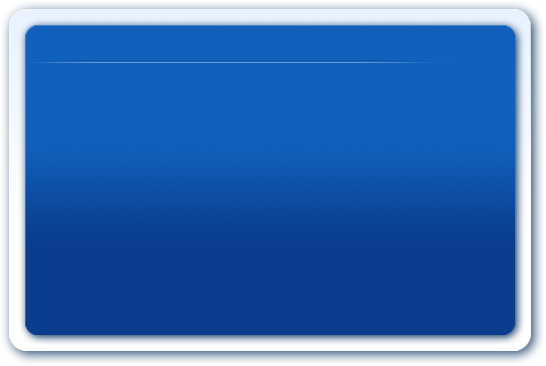
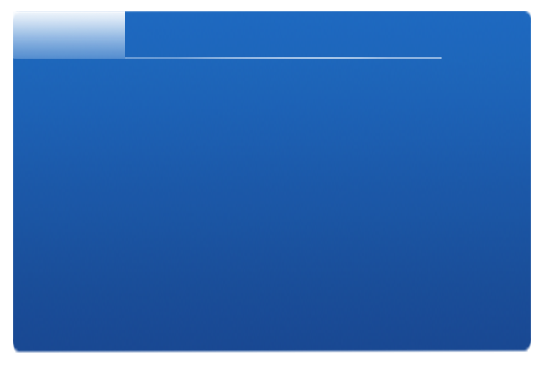
fixed: mantis #0000996 (GUIDialog: After dialog finished fade-out on close, the dialog title flash-up again), added new skin control "5" to DialogMenu to preserve it's "menu" text when all controls are freed, added some stuff James missed in Rev 13336 for BlueTwo wide - needs adjustments now!

Changed region(s): [[0.0, 0.0, 0.9963, 0.9918]]

diff --git a/mediaportal/Core/guilib/GUIWindow.cs b/mediaportal/Core/guilib/GUIWindow.cs
@@ -916,7 +916,6 @@ namespace MediaPortal.GUI.Library
     /// </summary>
     public virtual void FreeResources()
     {
-
       _windowAllocated = false;
       try
       {
@@ -1235,92 +1234,80 @@ namespace MediaPortal.GUI.Library
     public virtual bool OnMessage(GUIMessage message)
     {
       if (message == null) return true;
+
       //lock (this)
       AnimationTrigger(message);
       int id;
+      int iControlId = message.SenderControlId;
       {
         try
         {
           switch (message.Message)
           {
-            case GUIMessage.MessageType.GUI_MSG_CLICKED:
-              {
-                int iControlId = message.SenderControlId;
-                if (iControlId != 0)
-                  OnClicked(iControlId, GetControl(iControlId), (Action.ActionType)message.Param1);
-              }
+            case GUIMessage.MessageType.GUI_MSG_CLICKED:              
+              if (iControlId != 0)
+                OnClicked(iControlId, GetControl(iControlId), (Action.ActionType)message.Param1);
               break;
+
             case GUIMessage.MessageType.GUI_MSG_CLICKED_DOWN:
-              {
-                int iControlId = message.SenderControlId;
-                if (iControlId != 0)
-                  OnClickedDown(iControlId, GetControl(iControlId), (Action.ActionType)message.Param1);
-              }
+              if (iControlId != 0)
+                OnClickedDown(iControlId, GetControl(iControlId), (Action.ActionType)message.Param1);
               break;
 
             case GUIMessage.MessageType.GUI_MSG_CLICKED_UP:
-              {
-                int iControlId = message.SenderControlId;
-                if (iControlId != 0)
-                  OnClickedUp(iControlId, GetControl(iControlId), (Action.ActionType)message.Param1);
-              }
+              if (iControlId != 0)
+                OnClickedUp(iControlId, GetControl(iControlId), (Action.ActionType)message.Param1);
               break;
-
 
             // Initialize the window.
             case GUIMessage.MessageType.GUI_MSG_WINDOW_INIT:
+              if (_shouldRestore)
               {
-
-                if (_shouldRestore)
-                {
-                  DoRestoreSkin();
-
-                }
-                else
-                {
-                  GUIPropertyManager.SetProperty("#itemcount", String.Empty);
-                  GUIPropertyManager.SetProperty("#selecteditem", String.Empty);
-                  GUIPropertyManager.SetProperty("#selecteditem2", String.Empty);
-                  GUIPropertyManager.SetProperty("#selectedthumb", String.Empty);
-                  LoadSkin();
-                  AllocResources();
-
-                }
-
-                InitControls();
-
-                GUIGraphicsContext.Overlay = _isOverlayAllowed;
-
-                // set topbar autohide 
-                switch (_autoHideTopbarType)
-                {
-                  case AutoHideTopBar.No:
-                    _autoHideTopbar = false;
-                    break;
-                  case AutoHideTopBar.Yes:
-                    _autoHideTopbar = true;
-                    break;
-                  default:
-                    _autoHideTopbar = GUIGraphicsContext.DefaultTopBarHide;
-                    break;
-                }
-                GUIGraphicsContext.AutoHideTopBar = _autoHideTopbar;
-                GUIGraphicsContext.TopBarHidden = _autoHideTopbar;
-                GUIGraphicsContext.DisableTopBar = _disableTopBar;
-
-                if (message.Param1 != (int)GUIWindow.Window.WINDOW_INVALID)
-                {
-                  if (message.Param1 != GetID)
-                    _previousWindowId = message.Param1;
-                }
-                GUIMessage msg = new GUIMessage(GUIMessage.MessageType.GUI_MSG_SETFOCUS, GetID, 0, _defaultControlId, 0, 0, null);
-                OnMessage(msg);
-
-
-                GUIPropertyManager.SetProperty("#currentmodule", GUILocalizeStrings.Get(100000 + GetID));
-
-                Log.Info("window:{0} init", this.ToString());
+                DoRestoreSkin();
               }
+              else
+              {
+                GUIPropertyManager.SetProperty("#itemcount", String.Empty);
+                GUIPropertyManager.SetProperty("#selecteditem", String.Empty);
+                GUIPropertyManager.SetProperty("#selecteditem2", String.Empty);
+                GUIPropertyManager.SetProperty("#selectedthumb", String.Empty);
+                LoadSkin();
+                AllocResources();
+              }
+
+              InitControls();
+
+              GUIGraphicsContext.Overlay = _isOverlayAllowed;
+
+              // set topbar autohide 
+              switch (_autoHideTopbarType)
+              {
+                case AutoHideTopBar.No:
+                  _autoHideTopbar = false;
+                  break;
+                case AutoHideTopBar.Yes:
+                  _autoHideTopbar = true;
+                  break;
+                default:
+                  _autoHideTopbar = GUIGraphicsContext.DefaultTopBarHide;
+                  break;
+              }
+              GUIGraphicsContext.AutoHideTopBar = _autoHideTopbar;
+              GUIGraphicsContext.TopBarHidden = _autoHideTopbar;
+              GUIGraphicsContext.DisableTopBar = _disableTopBar;
+
+              if (message.Param1 != (int)GUIWindow.Window.WINDOW_INVALID)
+              {
+                if (message.Param1 != GetID)
+                  _previousWindowId = message.Param1;
+              }
+
+              GUIMessage msg = new GUIMessage(GUIMessage.MessageType.GUI_MSG_SETFOCUS, GetID, 0, _defaultControlId, 0, 0, null);
+              OnMessage(msg);
+
+              GUIPropertyManager.SetProperty("#currentmodule", GUILocalizeStrings.Get(100000 + GetID));
+              Log.Info("window:{0} init", this.ToString());
+
               _hasRendered = false;
               OnPageLoad();
 

diff --git a/mediaportal/Dialogs/Dialogs/GUIDialogMenu.cs b/mediaportal/Dialogs/Dialogs/GUIDialogMenu.cs
@@ -45,6 +45,8 @@ namespace MediaPortal.Dialogs
     [SkinControlAttribute(2)]    protected GUIButtonControl btnClose = null;
     [SkinControlAttribute(3)]    protected GUIListControl listView = null;
     [SkinControlAttribute(4)]    protected GUILabelControl lblHeading = null;
+    [SkinControlAttribute(5)]    protected GUILabelControl lblGFXHeading = null;
+
     int selectedItemIndex = -1;
     int selectedId = -1;
     bool showQuickNumbers = true;
@@ -70,10 +72,10 @@ namespace MediaPortal.Dialogs
     {
       get { return true; }
     }
+
     public override void PreInit()
     {
     }
-
 
     public override void OnAction(Action action)
     {
@@ -104,7 +106,7 @@ namespace MediaPortal.Dialogs
         keySelection += key;
         if (keySelection.Length == listItems.Count.ToString().Length)
         {
-          selectOpcion(keySelection);
+          selectOption(keySelection);
           keySelection = string.Empty;
           return;
         }
@@ -114,7 +116,8 @@ namespace MediaPortal.Dialogs
 
       base.OnAction(action);
     }
-    public void selectOpcion(string keySelected)
+
+    public void selectOption(string keySelected)
     {
       int selected;
       try
@@ -136,13 +139,14 @@ namespace MediaPortal.Dialogs
         OnMessage(msg);
       }
     }
+
     public override void Process()
     {
       if (keySelection == string.Empty) return;
       TimeSpan ts = DateTime.Now - keyTimer;
       if (ts.TotalMilliseconds >= 1000)
       {
-        selectOpcion(keySelection);
+        selectOption(keySelection);
         keySelection = string.Empty;
       }
     }
@@ -227,10 +231,9 @@ namespace MediaPortal.Dialogs
       {
         case GUIMessage.MessageType.GUI_MSG_WINDOW_DEINIT:
           {
-            m_bRunning = false;
-
-            // THIS IS AN INFINITY LOOP if you press the dialog's quick numbers (like 1,2,3)
             base.OnMessage(message);
+            m_bRunning = false;            
+
             return true;
           }
 
@@ -261,9 +264,7 @@ namespace MediaPortal.Dialogs
 
           }
           return true;
-
       }
-
       return base.OnMessage(message);
     }
 
@@ -308,6 +309,7 @@ namespace MediaPortal.Dialogs
       get { return showQuickNumbers; }
       set { showQuickNumbers = value; }
     }
+
     public void AddLocalizedString(int iLocalizedString)
     {
       int iItemIndex = listItems.Count + 1;
@@ -350,18 +352,16 @@ namespace MediaPortal.Dialogs
       InitControls();
 
       lblHeading.Label = strLine;
+      if (lblGFXHeading != null)
+        lblGFXHeading.Label = GUILocalizeStrings.Get(924);
     }
-
 
     public void SetHeading(int iString)
     {
-
       SetHeading(GUILocalizeStrings.Get(iString));
       selectedItemIndex = -1;
       listItems.Clear();
     }
-
-
 
     #region IRenderLayer
     public bool ShouldRenderLayer()

diff --git a/mediaportal/Core/guilib/GUILabelControl.cs b/mediaportal/Core/guilib/GUILabelControl.cs
@@ -303,7 +303,7 @@ namespace MediaPortal.GUI.Library
           if (message.Label != null)
             Label = message.Label;
           else
-            Label = String.Empty;
+            Label = string.Empty;
           return true;
         }
       }
@@ -341,6 +341,7 @@ namespace MediaPortal.GUI.Library
         }
       }
     }
+
     public override void SetPosition(int dwPosX, int dwPosY)
     {
       if (_positionX == dwPosX && _positionY == dwPosY) return;
@@ -348,6 +349,7 @@ namespace MediaPortal.GUI.Library
       _positionY = dwPosY;
       _reCalculate = true;
     }
+
     /// <summary>
     /// Get/set the color of the text
     /// </summary>
@@ -466,6 +468,7 @@ namespace MediaPortal.GUI.Library
     /// </summary>
     public override void FreeResources()
     {
+      Label = string.Empty;
       _reCalculate = true;
       GUIPropertyManager.OnPropertyChanged -= new GUIPropertyManager.OnPropertyChangedHandler(GUIPropertyManager_OnPropertyChanged);
       base.FreeResources();
@@ -535,10 +538,12 @@ namespace MediaPortal.GUI.Library
         return _textheight;
       }
     }
+
     void ClearFontCache()
     {
       Update();
     }
+
     public override void Animate(float timePassed, Animator animator)
     {
       base.Animate(timePassed, animator);

diff --git a/mediaportal/Dialogs/Dialogs/GUIDialogOK.cs b/mediaportal/Dialogs/Dialogs/GUIDialogOK.cs
@@ -42,10 +42,8 @@ namespace MediaPortal.Dialogs
     GUIWindow m_pParentWindow = null;
     #endregion
 
-    [SkinControlAttribute(10)]
-    protected GUIButtonControl btnNo = null;
-    [SkinControlAttribute(11)]
-    protected GUIButtonControl btnYes = null;
+    [SkinControlAttribute(10)]    protected GUIButtonControl btnNo = null;
+    [SkinControlAttribute(11)]    protected GUIButtonControl btnYes = null;
     bool m_bConfirmed = false;
     bool m_bPrevOverlay = true;
 
@@ -63,10 +61,10 @@ namespace MediaPortal.Dialogs
     {
       get { return true; }
     }
+
     public override void PreInit()
     {
     }
-
 
     public override void OnAction(Action action)
     {
@@ -181,10 +179,8 @@ namespace MediaPortal.Dialogs
           }
           break;
       }
-
       return base.OnMessage(message);
     }
-
 
     public bool IsConfirmed
     {
@@ -225,8 +221,6 @@ namespace MediaPortal.Dialogs
       if (iString == 0) SetLine(iLine, String.Empty);
       SetLine(iLine, GUILocalizeStrings.Get(iString));
     }
-
-
 
     #region IRenderLayer
     public bool ShouldRenderLayer()
